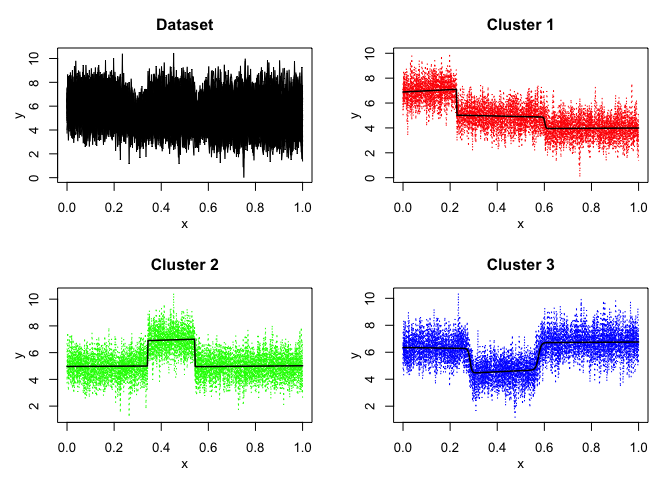
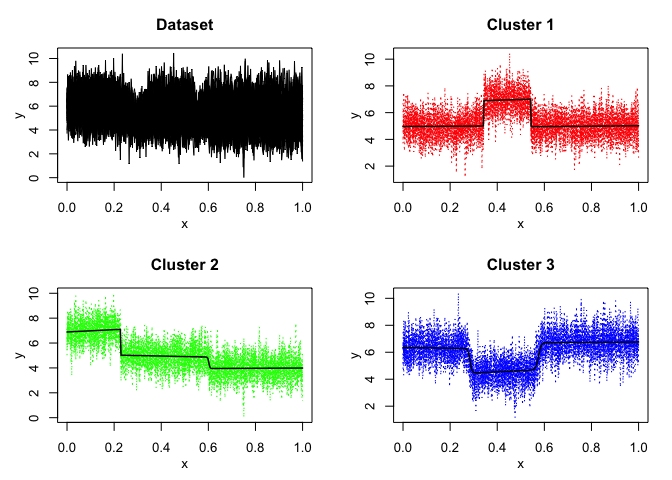
Configure Travis

diff --git a/README.md b/README.md
@@ -3,6 +3,8 @@
 
 <!-- badges: start -->
 
+[![Travis build
+status](https://travis-ci.org/fchamroukhi/FLaMingoS.svg?branch=master)](https://travis-ci.org/fchamroukhi/FLaMingoS)
 <!-- badges: end -->
 
 # **FLaMingoS**: **F**unctional **L**atent dat**A** **M**odels for cluster**ING** heterogene**O**us time-**S**eries
@@ -309,20 +311,6 @@ mixrhlp$summary()
 #> Regression coefficients:
 #> 
 #>     Beta(K = 1) Beta(K = 2) Beta(K = 3)
-#> 1     6.8902863   5.1134337  3.90153421
-#> X^1   0.9265632  -0.3959402  0.08748466
-#> 
-#> Variances:
-#> 
-#>  Sigma2(K = 1) Sigma2(K = 2) Sigma2(K = 3)
-#>       0.981915     0.9787717     0.9702211
-#> 
-#> --------------------
-#> Cluster 2 (G = 2):
-#> 
-#> Regression coefficients:
-#> 
-#>     Beta(K = 1) Beta(K = 2) Beta(K = 3)
 #> 1    4.96556671   6.7326717   4.8807183
 #> X^1  0.08880479   0.4984443   0.1350271
 #> 
@@ -330,6 +318,20 @@ mixrhlp$summary()
 #> 
 #>  Sigma2(K = 1) Sigma2(K = 2) Sigma2(K = 3)
 #>      0.9559969       1.03849     0.9506928
+#> 
+#> --------------------
+#> Cluster 2 (G = 2):
+#> 
+#> Regression coefficients:
+#> 
+#>     Beta(K = 1) Beta(K = 2) Beta(K = 3)
+#> 1     6.8902863   5.1134337  3.90153421
+#> X^1   0.9265632  -0.3959402  0.08748466
+#> 
+#> Variances:
+#> 
+#>  Sigma2(K = 1) Sigma2(K = 2) Sigma2(K = 3)
+#>       0.981915     0.9787717     0.9702211
 #> 
 #> --------------------
 #> Cluster 3 (G = 3):
@@ -404,19 +406,6 @@ mixhmm$summary()
 #> 
 #> Means:
 #> 
-#>     R = 1    R = 2    R = 3
-#>  6.319189 4.583954 6.722627
-#> 
-#> Variances:
-#> 
-#>      R = 1     R = 2   R = 3
-#>  0.9571803 0.9504731 1.01553
-#> 
-#> -------------------
-#> Cluster 2 (K = 2):
-#> 
-#> Means:
-#> 
 #>    R = 1    R = 2    R = 3
 #>  7.00202 4.964273 3.979626
 #> 
@@ -426,7 +415,7 @@ mixhmm$summary()
 #>  0.9858726 0.9884542 0.9651437
 #> 
 #> -------------------
-#> Cluster 3 (K = 3):
+#> Cluster 2 (K = 2):
 #> 
 #> Means:
 #> 
@@ -437,6 +426,19 @@ mixhmm$summary()
 #> 
 #>      R = 1    R = 2    R = 3
 #>  0.9578459 1.045573 0.952294
+#> 
+#> -------------------
+#> Cluster 3 (K = 3):
+#> 
+#> Means:
+#> 
+#>     R = 1    R = 2    R = 3
+#>  6.319189 4.583954 6.722627
+#> 
+#> Variances:
+#> 
+#>      R = 1     R = 2   R = 3
+#>  0.9571803 0.9504731 1.01553
 
 mixhmm$plot()
 ```
@@ -515,13 +517,13 @@ mixhmmr$summary()
 #> Regression coefficients:
 #> 
 #>     Beta(R = 1) Beta(R = 2) Beta(R = 3)
-#> 1     6.3552432   4.2868818   6.5327846
-#> X^1  -0.2865404   0.6907212   0.2429291
+#> 1      6.870328   5.1511267   3.9901300
+#> X^1    1.204150  -0.4601777  -0.0155753
 #> 
 #> Variances:
 #> 
 #>  Sigma2(R = 1) Sigma2(R = 2) Sigma2(R = 3)
-#>      0.9587975     0.9481068       1.01388
+#>      0.9776399     0.9895623       0.96457
 #> 
 #> --------------------
 #> Cluster 2 (K = 2):
@@ -543,13 +545,13 @@ mixhmmr$summary()
 #> Regression coefficients:
 #> 
 #>     Beta(R = 1) Beta(R = 2) Beta(R = 3)
-#> 1      6.870328   5.1511267   3.9901300
-#> X^1    1.204150  -0.4601777  -0.0155753
+#> 1     6.3552432   4.2868818   6.5327846
+#> X^1  -0.2865404   0.6907212   0.2429291
 #> 
 #> Variances:
 #> 
 #>  Sigma2(R = 1) Sigma2(R = 2) Sigma2(R = 3)
-#>      0.9776399     0.9895623       0.96457
+#>      0.9587975     0.9481068       1.01388
 
 mixhmmr$plot()
 ```
